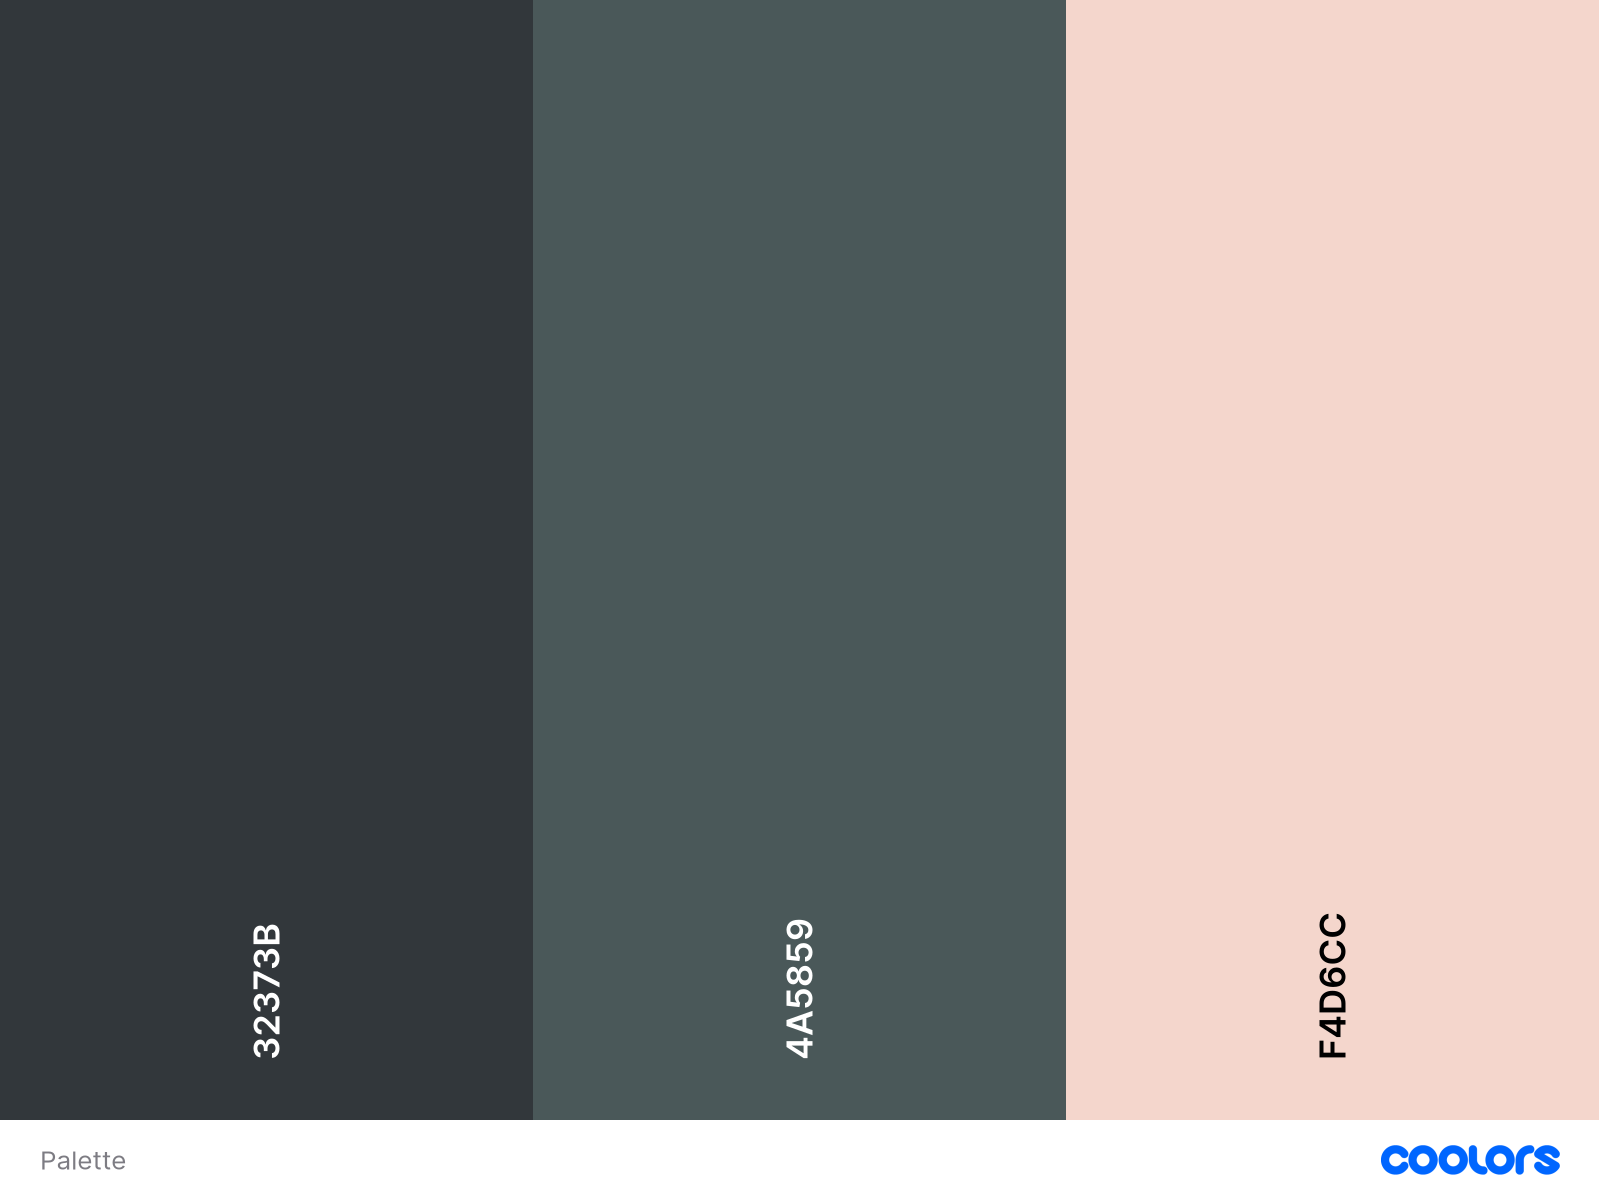
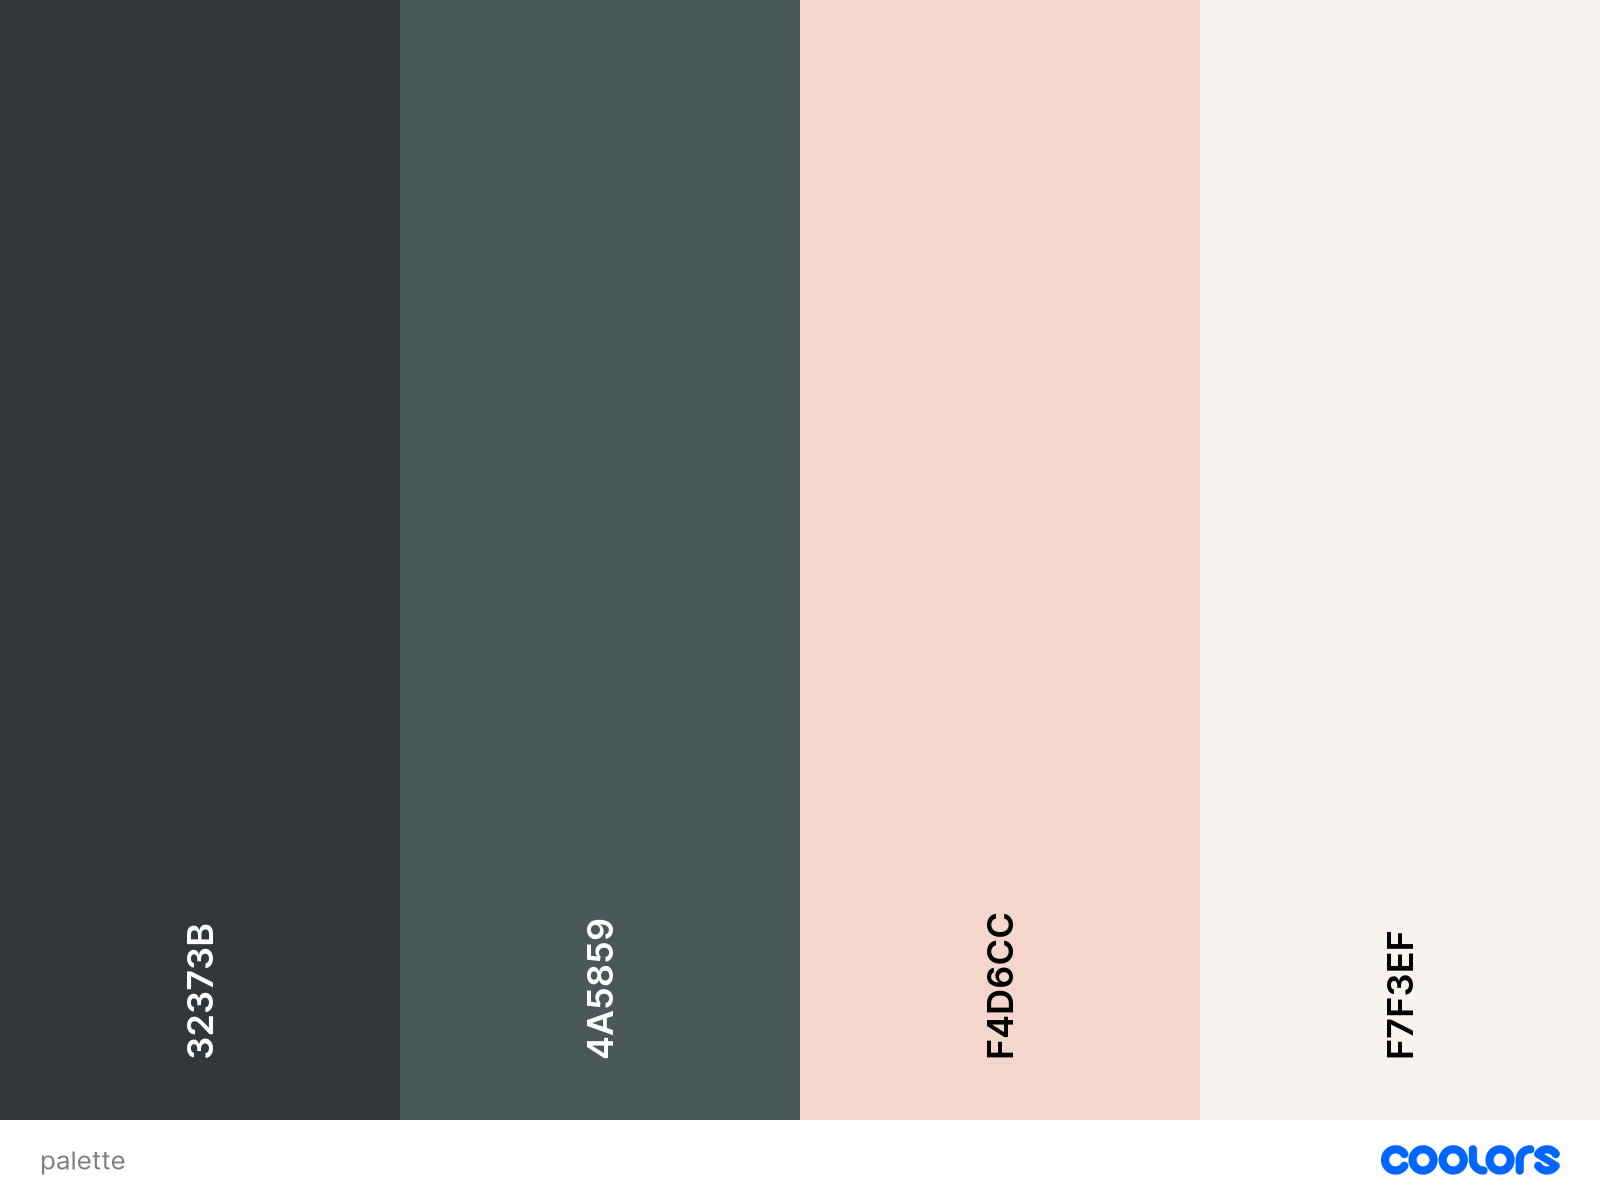
Update color scheme

diff --git a/assets/css/style.css b/assets/css/style.css
@@ -20,7 +20,7 @@ body {
 }
 
 h1 {
-    color: #F4D6CC;
+    color: #f7f3ef;
     font-family: 'Vollkorn', serif;
     font-size: 200%;
 }
@@ -46,13 +46,13 @@ header {
 
 header a {
     text-decoration: none;
-    color: #F4D6CC;
+    color: #f7f3ef;
     margin: 10px;
 }
 
 header i {
     margin: 10px 5px;
-    color: #F4D6CC;
+    color: #f7f3ef;
 
 }
 
@@ -94,7 +94,7 @@ header i {
 }
 
 .active {
-    border: 1px solid #F4D6CC;
+    border: 1px solid #f7f3ef;
     border-radius: 50%;
     padding: 0 20px;
     text-align: left;
@@ -172,7 +172,7 @@ h3 {
     font-style: italic;
     font-weight: bold;
     background-color: #242323;
-    color: #b9b2b2;
+    color: #f7f3ef;
     margin: 10px;
     border: 2px solid #242323;
     border-radius: 8px;
@@ -192,7 +192,7 @@ h3 {
     font-style: italic;
     font-weight: bold;
     background-color: #242323;
-    color: #b9b2b2;
+    color: #f7f3ef;
     margin: 10px;
     border: 2px solid #242323;
     border-radius: 8px;
@@ -209,7 +209,7 @@ h3 {
 
 #intro-services {
     background-color: rgba(0, 0, 0, .5);
-    color: #ffffff;
+    color: #f7f3ef;
     font-size: 150%;
     font-weight: lighter;
     position: absolute;
@@ -226,7 +226,7 @@ h3 {
 table {
     width: 100%;
     text-align: center;
-    background-color: #ffffff;
+    background-color: #f7f3ef;
     border: 2px solid #32373B;
     margin: auto;
 }
@@ -277,7 +277,7 @@ footer {
 }
 
 #social-networks i {
-    color: #F4D6CC;
+    color: #f7f3ef;
 }
 
 /* Media query for screens smaller than 343 px*/

diff --git a/README.md b/README.md
@@ -30,9 +30,9 @@ This website is targeted at people who are on the lookout for a cat to adopt, wh
 
 ### Color Scheme
 
-The color scheme is a fairly simple one, as the main focus should be on the cats and on the information regarding our services and potential pets. The pale pink is used on the title and social network icons in order to contrast the dark background, whereas the body of the website itself is pale pink as the website contains many images of cats; this is so the website isn't overloaded with content.
+The color scheme is a fairly simple one, as the main focus should be on the cats and on the information regarding our services and potential pets. The white is used on the title and social network icons in order to contrast the dark background, whereas the body of the website itself is pale pink as the website contains many images of cats; this is so the website isn't overloaded with content.
 
-![Color scheme for the project, the colors are black, dark grey and pale pink](assets/images/palette.png)
+![Color scheme for the project, the colors are black, dark grey, pale pink and white](assets/images/palette.png)
 
 ### Typography
 
